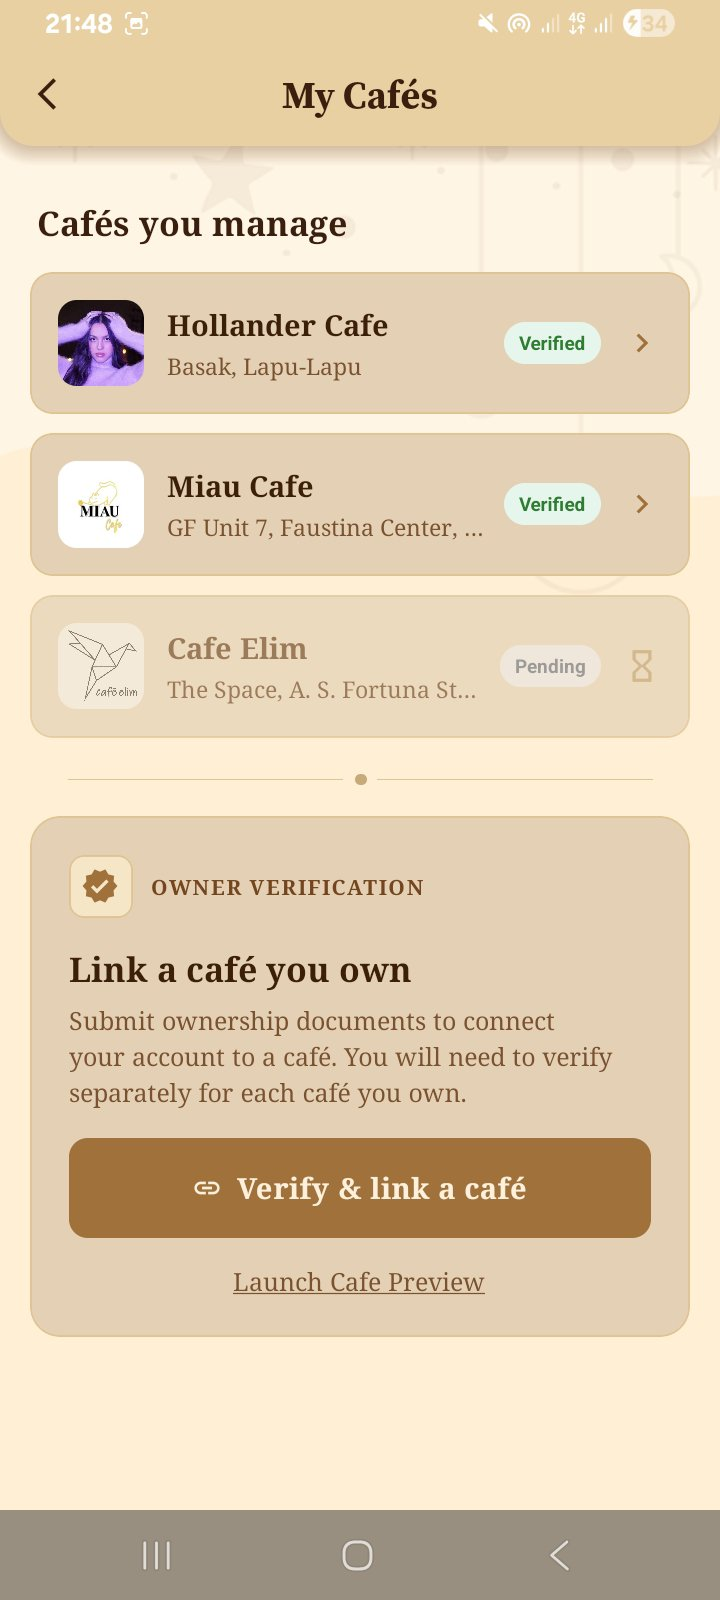
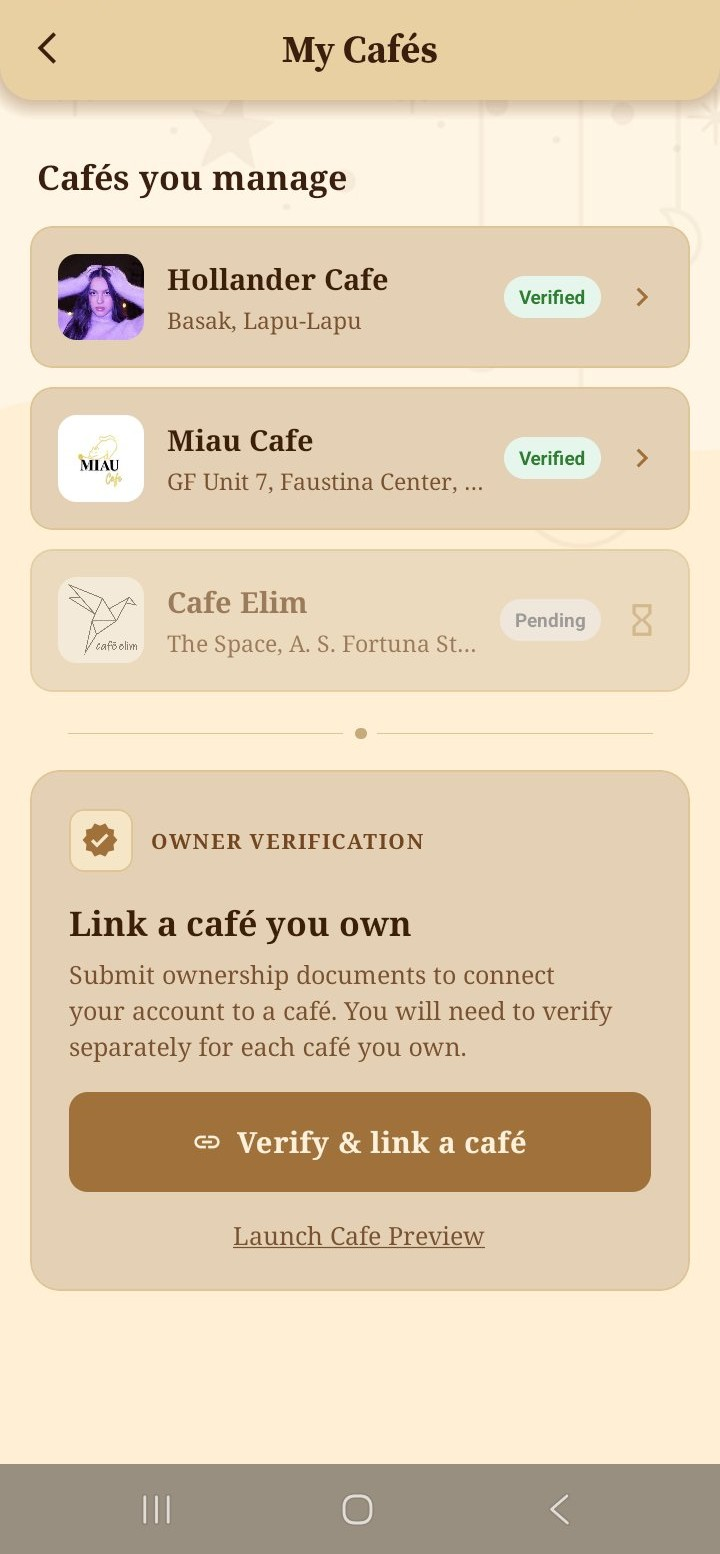
Updated Photo

diff --git a/src/app/components/portfolio/AboutSection.tsx b/src/app/components/portfolio/AboutSection.tsx
@@ -1,7 +1,7 @@
 import { useState } from 'react';
 import { BODY, DISPLAY, MONO } from '../../../constants/index';
-import photo from "../../assets/olivia.png";
-import secondPhoto from "../../assets/email_photo_crop.jpg";
+import photo from "../../assets/photo1.png";
+import secondPhoto from "../../assets/photo2.png";
 
 export function AboutSection() {
   const [aboutOpen, setAboutOpen] = useState(false);
@@ -10,7 +10,6 @@ export function AboutSection() {
   return (
     <section id="about" className="min-h-screen flex items-center py-28">
       <div className="max-w-5xl mx-auto px-8 flex flex-col md:flex-row items-center gap-14">
-        <div className="relative w-56 h-64 flex-shrink-0">
           <div className="absolute inset-0 rounded-2xl border-2 border-border bg-card" />
           {[
             'absolute -top-3 -left-3',
@@ -22,7 +21,7 @@ export function AboutSection() {
               <path d="M0 36 Q10 18 36 0 Q26 14 13 22 Q4 28 0 36Z" fill="#4a6741" opacity="0.45" />
             </svg>
           ))}
-          <div className="relative w-56 h-64 flex-shrink-0"
+          <div className="relative w-56 h-64 flex-shrink-0 mx-auto"
            onMouseEnter={() => setPhotoHovered(true)}
            onMouseLeave={() => setPhotoHovered(false)}
           >
@@ -58,13 +57,13 @@ export function AboutSection() {
                     'absolute -bottom-3 -right-3 scale-x-[-1] scale-y-[-1]',
                 ].map((cls, i) => (
                     <svg key={i} className={cls} width="30" height="30" viewBox="0 0 36 36" fill="none"
-                    style={{ zIndex: 2, position: 'absolute' }}
+                      style={{ zIndex: 2, position: 'absolute' }}
                     >
-                    <path d="M0 36 Q10 18 36 0 Q26 14 13 22 Q4 28 0 36Z" fill="#4a6741" opacity="0.45" />
+                      <path d="M0 36 Q10 18 36 0 Q26 14 13 22 Q4 28 0 36Z" fill="#4a6741" opacity="0.45" />
                     </svg>
                 ))}
                 </div>
-        </div>
+  
 
         <div className="space-y-5">
           <div>
@@ -240,8 +239,11 @@ export function AboutSection() {
                   </p>
                   <div style={{ display: 'flex', flexDirection: 'column', gap: 8 }}>
                     {[
-                      { year: '2023 – present', title: 'BS Computer Science', sub: 'University of the Philippines Cebu' },
-                      { year: '2023 - Present ', title: 'UP Computer Science Guild', sub: 'Volunteer & Block Representative' }, 
+                      { year: '2023 – Present', title: 'BS Computer Science', sub: 'University of the Philippines Cebu' },
+                      { year: '2023 - Present ', title: 'UP Computer Science Guild' }, 
+                      { year: '2025', title: 'Can You HackIT - The IBPAP Challenge (Hackathon)' }, 
+                      { year: '2025 - 2026', title: 'Overall Head of Komsai Week ByteBlitz Programming Competition' }, 
+                      { year: '2024', title: 'Technology Application and Promotion Institute CLUSTERICE Finalist ' }, 
                       { year: '2021 – 2023', title: 'Science, Technology, Engineering, and Mathematics (STEM)', sub: 'Science and Technology Education Center (STEC)' },
                     ].map(({ year, title, sub }) => (
                       <div key={title} style={{ display: 'flex', gap: 14, alignItems: 'flex-start' }}>

diff --git a/src/constants/index.ts b/src/constants/index.ts
@@ -51,7 +51,7 @@ export const projects = [
     name: 'TARA',
     desc: 'Tech Access Reskilling with AI — An AI-powered platform for accessible tech learning and personalized reskilling.ent opportunities.',
     tech: ['Python', 'Flet', 'AI'],
-     github: 'https://github.com/Ileryadeh/TARA_App',
+    github: 'https://github.com/Ileryadeh/TARA_App',
     flowerColor: '#d4a830',
     petalColor: '#f5d878',
     centerColor: '#6b4800',
@@ -71,6 +71,7 @@ export const projects = [
     name: 'Agap',
     desc: 'An e-referral and emergency response platform that uses Medical NLP, real-time mapping, and hospital system integration to optimize EMT dispatch, patient routing, and healthcare coordination.',
     tech: ['Frontend', 'UI Design'],
+    figma: 'https://www.figma.com/proto/TqeKo4UvIzfsad8tAZj47i/Prototype?node-id=65-112&starting-point-node-id=65%3A112&t=dxYXmqYDbmmdKOCq-1',
     flowerColor: '#5a88c8',
     petalColor: '#9ab8e8',
     centerColor: '#1e4888',

diff --git a/src/app/components/portfolio/Flower.tsx b/src/app/components/portfolio/Flower.tsx
@@ -19,8 +19,8 @@ export function Flower({ project }: FlowerProps) {
   const isBlackJack = project.name === 'BlackJack Mafia';
   const isAgap = project.name === 'Agap';
   const isLutaw = project.name === 'Lutaw';
-  const projectLink = project.github;
-  const linkLabel = 'View on GitHub →';
+  const projectLink = project.github ?? project.figma;
+  const linkLabel = project.github ? 'View on GitHub →' : 'View Prototype →';
 
   useEffect(() => {
     if (open) {

diff --git a/src/types/index.ts b/src/types/index.ts
@@ -3,6 +3,7 @@ export type Project = {
   desc: string;
   tech: string[];
   github?: string;
+  figma?: string;
   apk?: string;
   flowerColor: string;
   petalColor: string;
